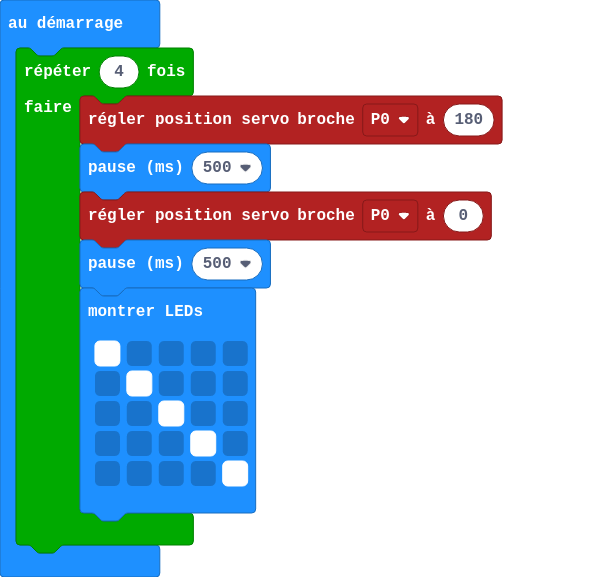
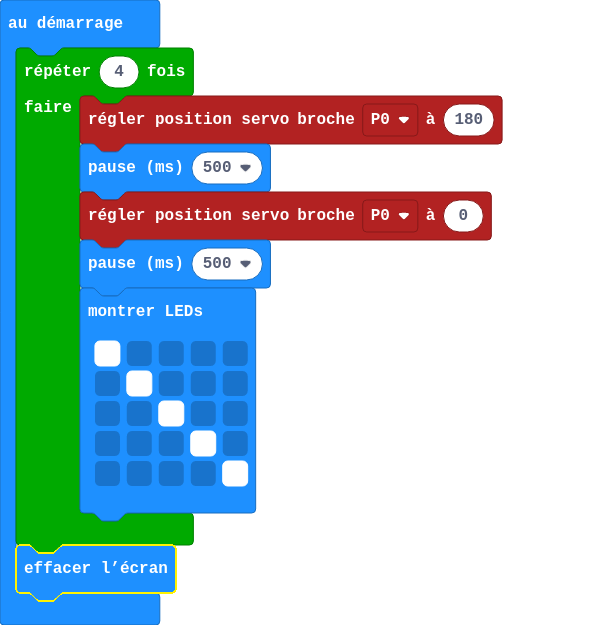
Mise à jour main.blocks, main.ts

Changed region(s): [[0.0, 0.0312, 0.8317, 0.9671]]

diff --git a/main.ts b/main.ts
@@ -11,3 +11,4 @@ for (let index = 0; index < 4; index++) {
         . . . . #
         `)
 }
+basic.clearScreen()
